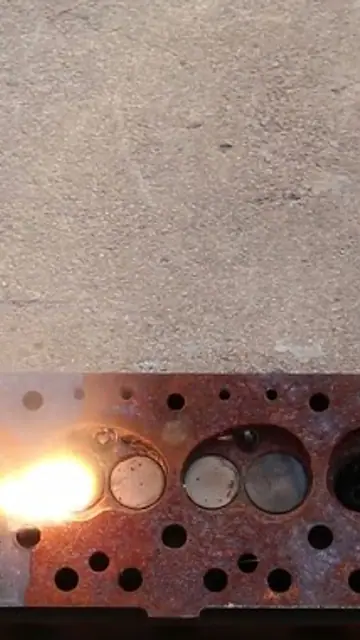
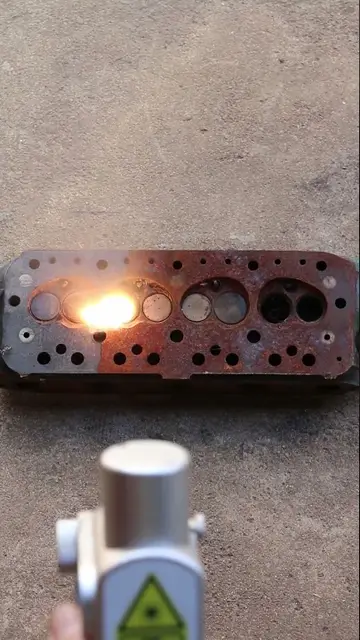
Gallery: drop duplicate steel-plate pair; real video frames as posters; allow equipment in hero and videos

diff --git a/gallery.html b/gallery.html
@@ -94,14 +94,14 @@
           <h1>Laser cleaning <em>before and after</em></h1>
           <p>Real jobs, photographed before and after. Select any photo to enlarge it. Unsure whether your surface is a fit? <a class="inline-link" href="index.html#contact">Send us photos for a free assessment.</a></p>
           <div class="chip-row" aria-label="Gallery categories">
-            <a class="chip" href="#rust">Rust and corrosion <small>6 pairs</small></a>
+            <a class="chip" href="#rust">Rust and corrosion <small>5 pairs</small></a>
             <a class="chip" href="#paint">Paint and coatings <small>2 pairs</small></a>
             <a class="chip" href="#contaminants">Contaminants and residue <small>1 pair</small></a>
           </div>
         </div>
       </section>
 
-      <!-- TODO client: confirm the material and what was removed for each pair below (titles use only what the photos show). "large-sheet": the old filename said aluminium but the photos look like rusted steel. "steel-plate" and "steel-plate-portrait" look like the same plate, so drop one if it is a duplicate. -->
+      <!-- TODO client: confirm the material and what was removed for each pair below (titles use only what the photos show). "large-sheet": the old filename said aluminium but the photos look like rusted steel. -->
       <section class="gallery-section section section--surface" id="rust" aria-labelledby="rust-title">
         <div class="container">
           <div class="gallery-section-heading">
@@ -166,26 +166,6 @@
                 <figure>
                   <a class="lightbox-link" href="assets/img/work/steel-plate-after-1600.webp" data-lightbox data-caption="Steel plate · rust removed (after)">
                     <img src="assets/img/work/steel-plate-after-800.webp" srcset="assets/img/work/steel-plate-after-800.webp 800w, assets/img/work/steel-plate-after-1600.webp 1600w" sizes="(max-width: 680px) 44vw, 270px" width="800" height="533" alt="The same plate after laser cleaning, an even matte grey surface" loading="lazy" decoding="async" />
-                    <span class="zoom-hint" aria-hidden="true"><svg class="icon"><use href="#i-zoom" /></svg></span>
-                  </a>
-                  <figcaption><span class="tag tag--after">After</span></figcaption>
-                </figure>
-              </div>
-            </article>
-            <article class="card before-after-pair">
-              <h3>Steel plate · portrait view</h3>
-              <p class="pair-meta">A second view of the plate above.</p>
-              <div class="comparison-photos comparison-photos--portrait">
-                <figure>
-                  <a class="lightbox-link" href="assets/img/work/steel-plate-portrait-before-1200.webp" data-lightbox data-caption="Steel plate · portrait view (before)">
-                    <img src="assets/img/work/steel-plate-portrait-before-600.webp" srcset="assets/img/work/steel-plate-portrait-before-600.webp 600w, assets/img/work/steel-plate-portrait-before-1200.webp 1200w" sizes="(max-width: 680px) 44vw, 270px" width="600" height="900" alt="Portrait view of the rusted steel plate before laser cleaning" loading="lazy" decoding="async" />
-                    <span class="zoom-hint" aria-hidden="true"><svg class="icon"><use href="#i-zoom" /></svg></span>
-                  </a>
-                  <figcaption><span class="tag tag--before">Before</span></figcaption>
-                </figure>
-                <figure>
-                  <a class="lightbox-link" href="assets/img/work/steel-plate-portrait-after-1200.webp" data-lightbox data-caption="Steel plate · portrait view (after)">
-                    <img src="assets/img/work/steel-plate-portrait-after-600.webp" srcset="assets/img/work/steel-plate-portrait-after-600.webp 600w, assets/img/work/steel-plate-portrait-after-1200.webp 1200w" sizes="(max-width: 680px) 44vw, 270px" width="600" height="900" alt="Portrait view of the steel plate after laser cleaning, rust removed" loading="lazy" decoding="async" />
                     <span class="zoom-hint" aria-hidden="true"><svg class="icon"><use href="#i-zoom" /></svg></span>
                   </a>
                   <figcaption><span class="tag tag--after">After</span></figcaption>

diff --git a/videos.html b/videos.html
@@ -101,7 +101,7 @@
         </div>
       </section>
 
-      <!-- TODO client: titles below are written from each video's thumbnail and YouTube title. Confirm the object and what was removed (e.g. what the wheel was cleaned of). One channel video (g10ue2Jmhpc, "04 September 2026") is a promo graphic, so it is left out. Posters for the vehicle-panel, steel-sheet and engine-part videos are our own photos or a cropped frame, because the video frames show the equipment. -->
+      <!-- TODO client: titles below are written from each video's thumbnail and YouTube title. Confirm the object and what was removed (e.g. what the wheel was cleaned of). One channel video (g10ue2Jmhpc, "04 September 2026") is a promo graphic, so it is left out. -->
       <section class="video-section section section--surface" id="paint-videos" aria-labelledby="paint-videos-title">
         <div class="container">
           <div class="gallery-section-heading">

diff --git a/REDESIGN_PLAN.md b/REDESIGN_PLAN.md
@@ -5,7 +5,7 @@ Keep the dark + orange feel. Re-read §0 before writing any copy.
 
 ## 0. Hard rules and confirmed facts
 **Hard rules**
-- **Equipment confidentiality:** never mention the laser's brand, model, manufacturer, wattage or wavelength. That covers copy, alt text, filenames, meta, schema and comments. The most specific wording allowed is "industrial-grade fibre laser". Describe capability, not equipment. Never show the machine/unit. No image may show a readable machine label.
+- **Equipment confidentiality:** never mention the laser's brand, model, manufacturer, wattage or wavelength. That covers copy, alt text, filenames, meta, schema and comments. The most specific wording allowed is "industrial-grade fibre laser". Describe capability, not equipment. Don't show the machine/unit in site images, **except the hero image and YouTube videos (client override, 2026-11-19)**. No site image may show a readable machine label.
 - Never invent facts (stats, testimonials, certifications, logos, years, response times). Use visible `[[CLIENT: …]]` placeholders, or leave the section out.
 - No cleaning-speed or max-thickness numbers. If a section needs one, use `[[CLIENT: TODO …]]`.
 - SA/UK English (aluminium, colour, fibre). Brand: "Advanced Laser Surface Restoration (ALSR)", then "ALSR". Service term: "laser cleaning".
@@ -225,13 +225,13 @@ All answered or parked by the client (2026-11). Answers live in §0. Build **no*
 - [x] Videos: all 6 existing IDs verified via YouTube oEmbed; channel listing fetched; 5 new videos added; facades with posters; follow-us row; CTA band
 - [x] Images: 800 w and 1600 w WebP (portrait pair 600/1200), `srcset`/`sizes`, `width`/`height`, lazy everywhere except the hero (`fetchpriority="high"`). All 1600 w files are under 350 KB, 800 w under 150 KB
 - [x] Kebab-case renames under `assets/img/work/`; `assets/img/brand/og-image.jpg` (1200×630); posters in `assets/img/video-posters/`
-- [x] Unused media removed from the deploy: originals, `_result`/`_gallery` webps and the MP4s moved to `../ALSR Laser Cleaning - media archive/` (also still in git history)
+- [x] Unused media removed from the deploy: originals, `_result`/`_gallery` webps and the MP4s moved to `../ALSR Laser Cleaning - media archive/` (also still in git history). `HeroImage.jpg` is archived too; the client now allows it as the hero, not yet swapped in
 - [x] 404.html: self-contained inline CSS, absolute `https://alsr-sa.com/` links
 - Files: gallery.html, videos.html, 404.html, index.html (img refs), assets/img/**, assets/css/site.css, assets/js/site.js, partials/header.html (icons)
 - **Phase 4 notes:**
   - Gallery: 3 sections (#rust 6 pairs, #paint 2, #contaminants 1), 18 photos. Each photo is an `<a class="lightbox-link" data-lightbox href=1600w>` so it opens the large file without JS. `site.js` builds one `<dialog class="lightbox">`: focus moves to Close, Esc/backdrop click closes, ←/→/Home/End, swipe, prev/next buttons, counter, focus returns to the last photo viewed, neighbours preloaded. Titles are "object · what was removed" using only what the photos show. HTML `TODO client` comments mark unknowns (material of "large-sheet": old filename said aluminium but it looks like rusted steel; `steel-plate` and `steel-plate-portrait` look like the same plate).
   - Videos: 11 videos in 3 groups (paint 4, rust 5, residue 2). All are YouTube Shorts (9:16). Facade is `<a class="video-facade" href=youtube.com/shorts/ID data-video-id>` with a local poster; `site.js` swaps in a `youtube-nocookie.com` iframe (autoplay) on click and gives it focus. No YouTube request happens before the click. Excluded: `g10ue2Jmhpc` ("04 September 2026"), a promo graphic.
-  - Posters: YouTube thumbnails cropped to 9:16, except three videos whose frames show the handpiece/label (vehicle panel, steel sheet, engine part): those use our own photos or a cropped safe region. The video footage itself still shows the equipment on YouTube; that is the client's channel content.
+  - Posters: YouTube thumbnails cropped to 9:16. After the 2026-11-19 client override (equipment allowed in hero + videos) all posters are the real video frames. Duplicate portrait steel-plate pair dropped, so the gallery has 5 rust pairs (8 pairs, 16 photos).
   - Home showcase and hero now use the new `assets/img/work/` files with srcset/width/height. New sprite icons: `i-zoom`, `i-chevron-left`, `i-chevron-right`.
   - Checked in headless Chrome at 1280 and 360: no horizontal overflow, no console errors, lightbox keyboard flow and facade click verified.
   - Meta titles/descriptions, og:image tags and JSON-LD are Phase 5. `og-image.jpg` exists but is not yet referenced.

diff --git a/CLAUDE.md b/CLAUDE.md
@@ -6,7 +6,7 @@
 - Run locally from the root: `npx serve .` or `python -m http.server 8000`.
 - **Read REDESIGN_PLAN.md (§0 rules and facts first) before working.** Tick phase checkboxes as tasks complete.
 - Don't open image/video files unless the task needs it. Use filenames and sizes.
-- **Never** name the laser's brand, model, manufacturer, wattage or wavelength anywhere (copy, alt, filenames, meta, schema). Max: "industrial-grade fibre laser". Never show the machine.
+- **Never** name the laser's brand, model, manufacturer, wattage or wavelength anywhere (copy, alt, filenames, meta, schema). Max: "industrial-grade fibre laser". Exception (client, 2026-11-19): the machine may appear in the hero image and in YouTube videos. Elsewhere on the site, don't show it.
 - Never invent client facts (prices, stats, testimonials, certifications). Use `[[CLIENT: …]]` placeholders.
 - SA/UK English. Brand "Advanced Laser Surface Restoration (ALSR)". Service term "laser cleaning".
 - Keep the dark + orange (#f07824) look. Use tokens in assets/css/site.css, no hard-coded colours.
